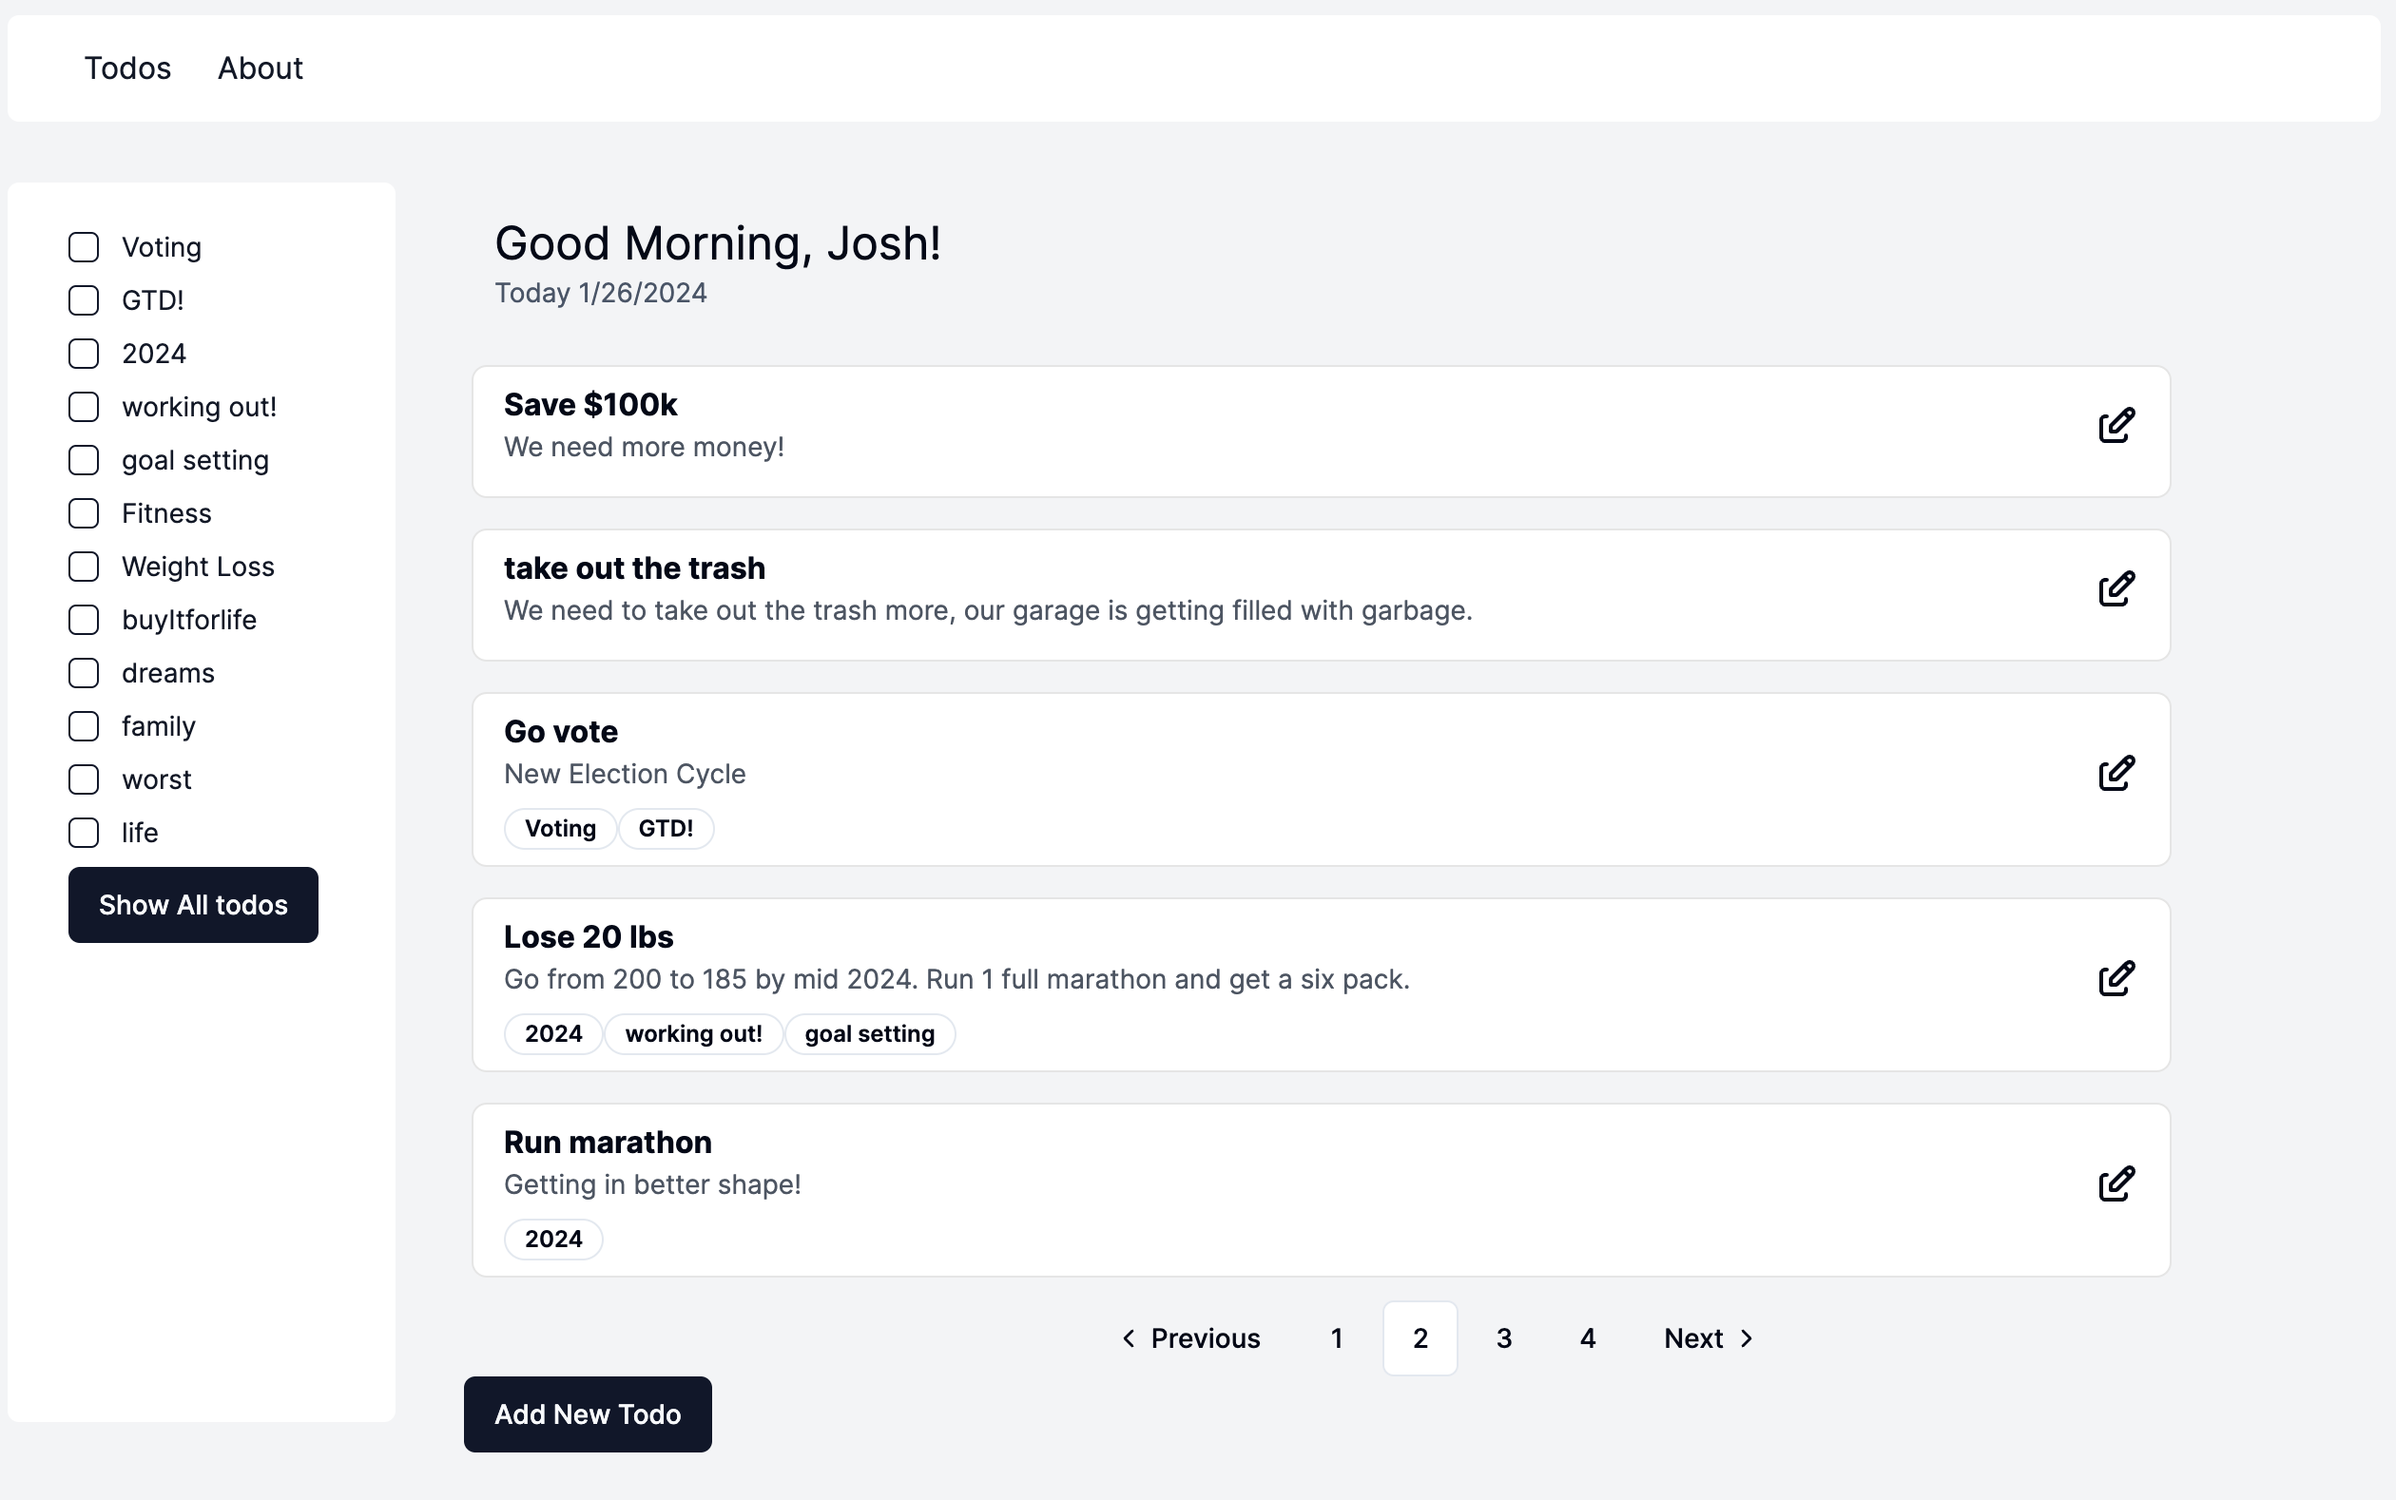
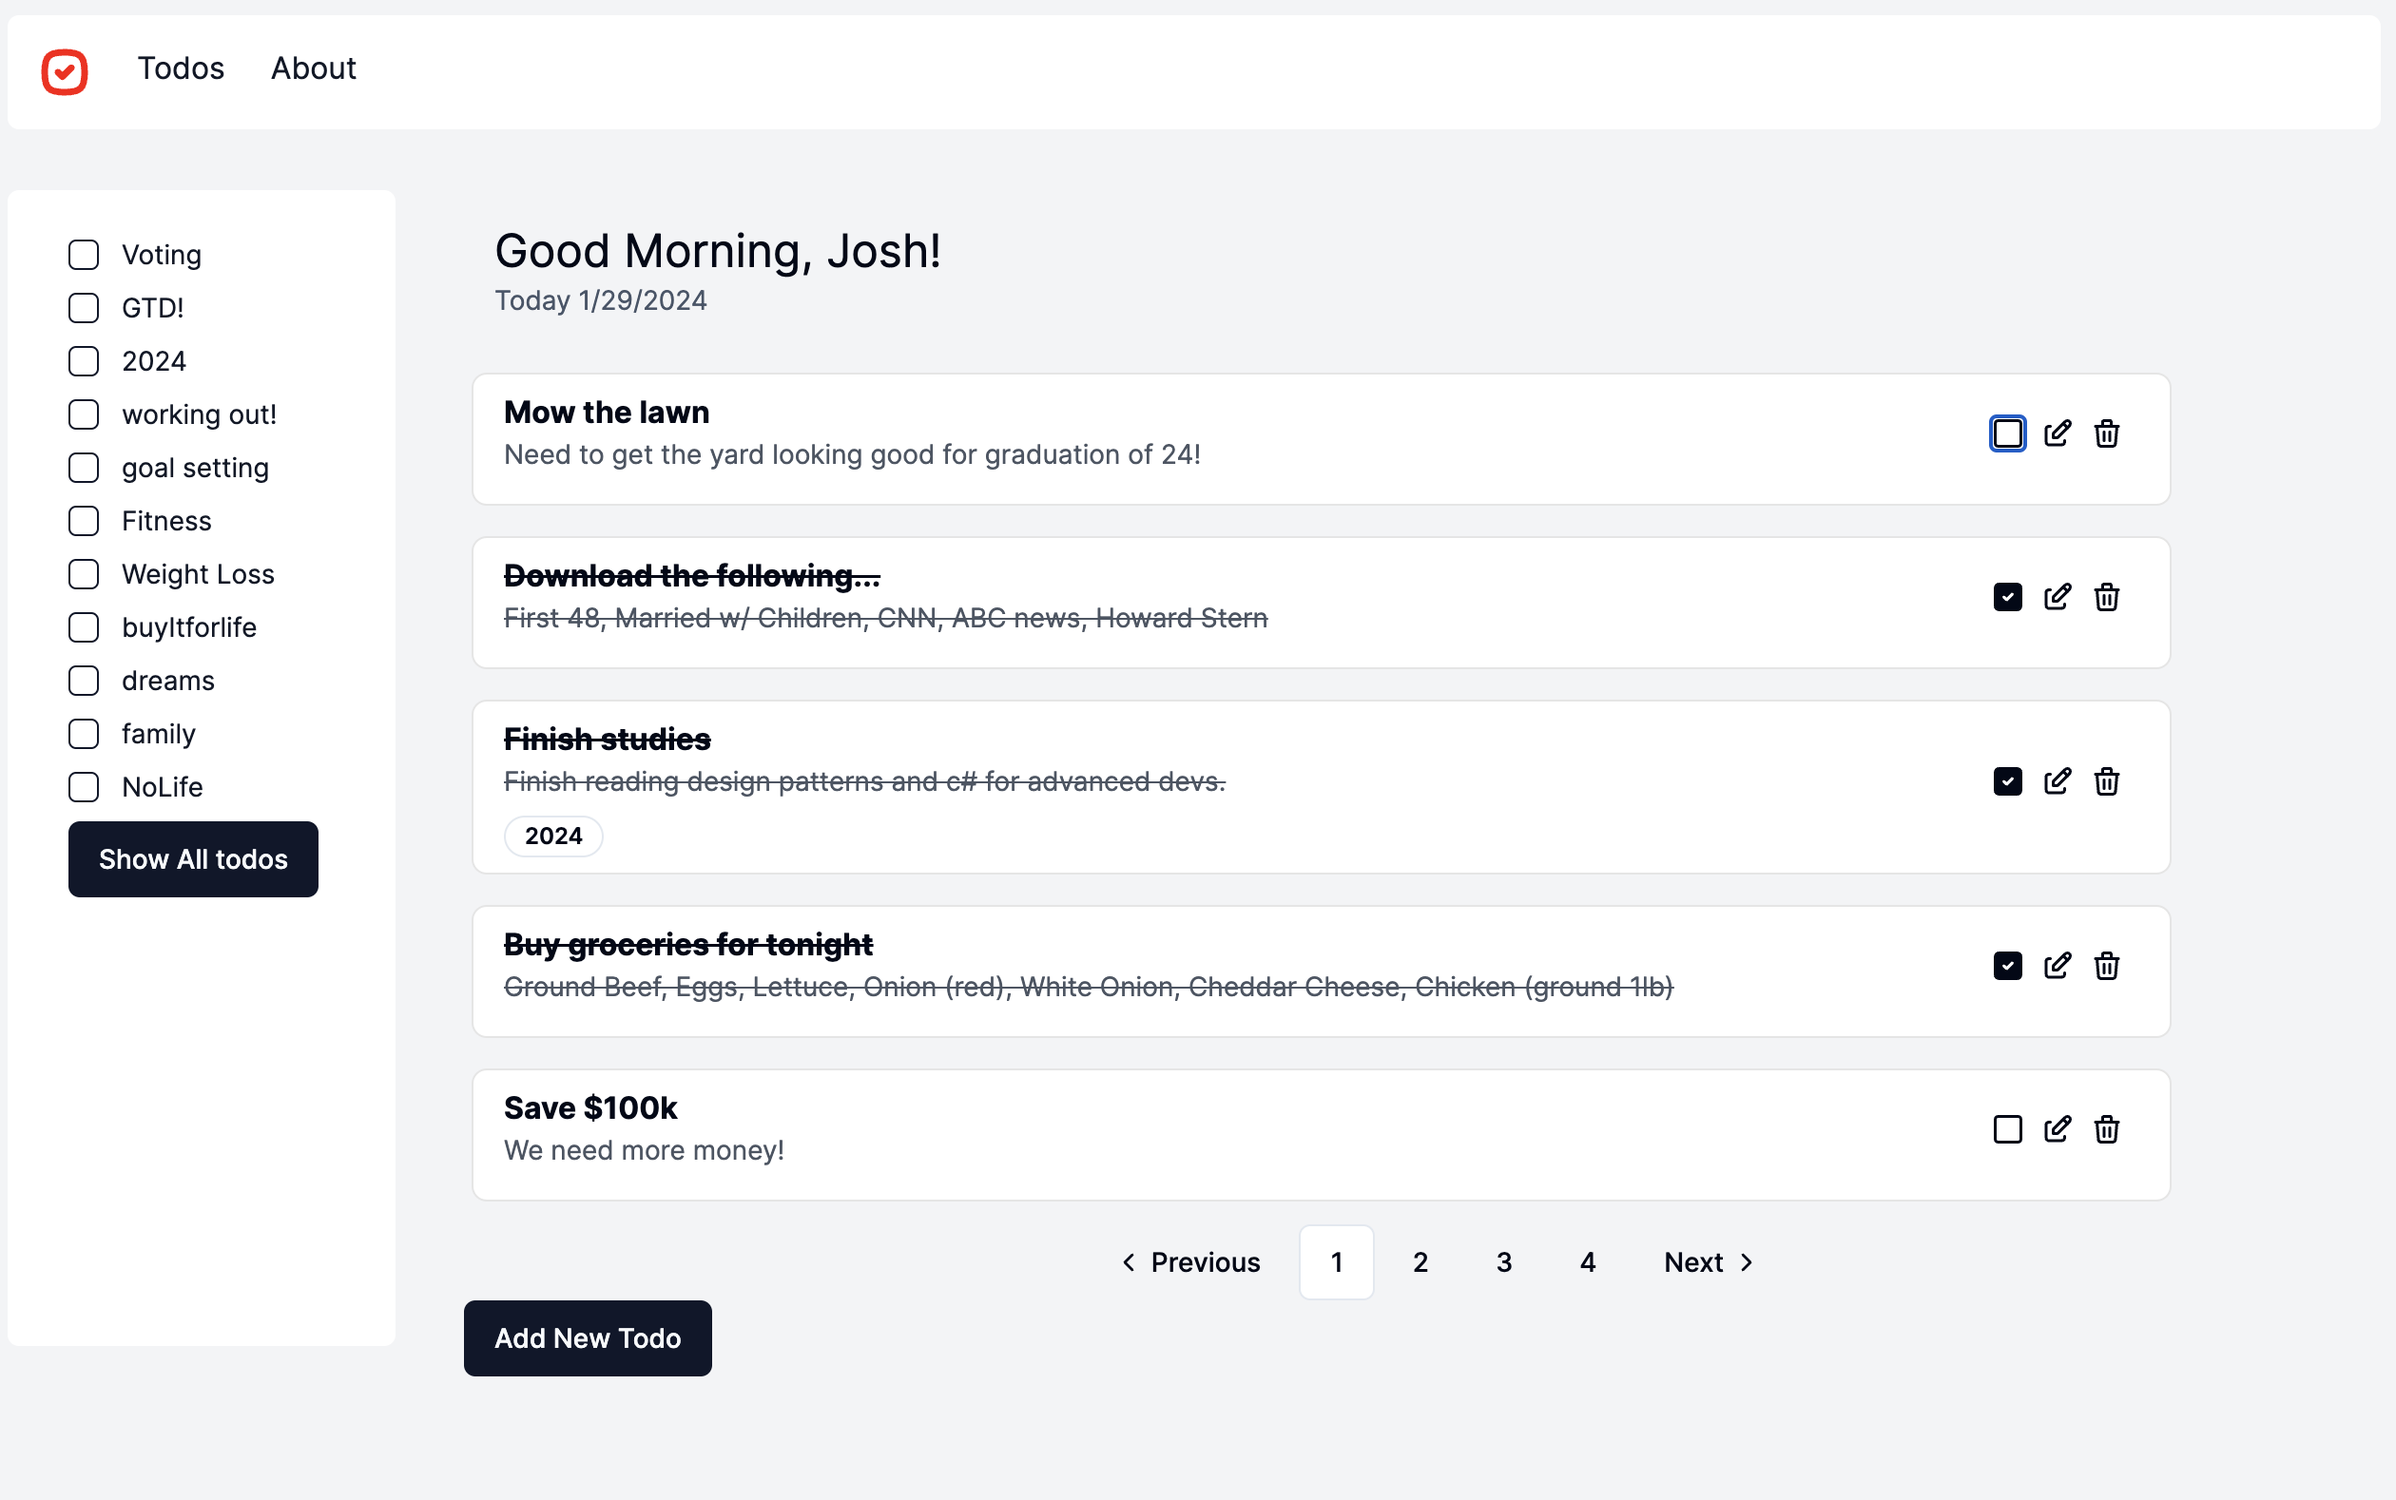
updated screenshot, changed complete todo to flip the state

diff --git a/utils/actions.ts b/utils/actions.ts
@@ -73,7 +73,7 @@ export const editTodo = async (id: string, todo) => {
   const disconnectTags = currentTagNames.map((name) => ({ name }))
 
   // create an object pair for each tag that needs created
-  const connectOrCreateTags = tags.map((name) => ({
+  const connectOrCreateTags = tags.map((name: string) => ({
     where: { name },
     create: { name },
   }))
@@ -94,17 +94,25 @@ export const editTodo = async (id: string, todo) => {
   return updatedTodo
 }
 
-// Mark a todo complete
+// Flips the state of complete on todo. Marks complete if not complete and vice versa
 export const completeTodo = async (id: string) => {
+  const currentTodo = await db.todo.findUnique({
+    where: { id },
+  })
+
+  if (!currentTodo) {
+    throw new Error('todo not found')
+  }
+
   const todo = await db.todo.update({
     where: { id },
     data: {
-      completed: true,
+      completed: !currentTodo.completed,
     },
   })
 
   // this will expire the cache of the todos page and force it to refetch data
-  revalidatePath('/todos')
+  revalidatePath('/')
 }
 
 // Delete a todo based on string id

diff --git a/app/api/todo/route.ts b/app/api/todo/route.ts
@@ -1,19 +1,20 @@
-import { NextResponse } from "next/server"
-import db from "@/utils/db"
+import { NextResponse } from 'next/server'
+import db from '@/utils/db'
 
+// returns all todos as json
 export const GET = async (request: Request) => {
-    const todos = await db.todo.findMany({})
-    return NextResponse.json({
-        data:todos
-    })
+  const todos = await db.todo.findMany({})
+  return NextResponse.json({
+    data: todos,
+  })
 }
 
-export const POST = async (request: Request) => {
-    const data = await request.json()
-    const todo = await db.todo.create({
-        data: data
-    })
-    return NextResponse.json({
-        message:todo
-    })
-}
+// export const POST = async (request: Request) => {
+//   const data = await request.json()
+//   const todo = await db.todo.create({
+//     data: data,
+//   })
+//   return NextResponse.json({
+//     message: todo,
+//   })
+// }

diff --git a/components/Todo.tsx b/components/Todo.tsx
@@ -39,8 +39,20 @@ const Todo = ({
     <>
       <div className="flex justify-between items-center h-1/4 w-3/4 my-2 px-4 py-2 border border-black/10 bg-white cursor-pointer rounded-lg">
         <div className="flex flex-col ">
-          <h2 className="font-bold text-large mb-0">{todo.title}</h2>
-          <p className="text-gray-600 text-sm">{todo.content}</p>
+          <h2
+            className={`font-bold text-large mb-0 ${
+              todo.completed ? 'line-through' : ''
+            }`}
+          >
+            {todo.title}
+          </h2>
+          <p
+            className={`text-gray-600 text-sm ${
+              todo.completed ? 'line-through' : ''
+            }`}
+          >
+            {todo.content}
+          </p>
           <div className="flex flex-wrap mt-2">
             {todo.tags.map((tag, idx) => (
               <Badge key={idx} variant="outline">

diff --git a/components/Greeting.tsx b/components/Greeting.tsx
@@ -1,13 +1,15 @@
 import React from 'react'
 
 const Greeting = () => {
-  const date = new Date();
-  const formattedDate = `${date.getMonth() + 1}/${date.getDate()}/${date.getFullYear()}`;
+  const date = new Date()
+  const formattedDate = `${
+    date.getMonth() + 1
+  }/${date.getDate()}/${date.getFullYear()}`
 
   return (
-    <div className='mt-4 px-4 py-4'>
-      <h1 className='text-2xl'>Good Morning, Josh!</h1>
-      <h3 className='text-slate-600 text-sm'>Today {formattedDate}</h3>
+    <div className="mt-4 px-4 py-4">
+      <h1 className="text-2xl">Good Morning, Josh!</h1>
+      <h3 className="text-slate-600 text-sm">Today {formattedDate}</h3>
     </div>
   )
 }

diff --git a/README.md b/README.md
@@ -11,6 +11,15 @@ Run the dev server
 npm run dev
 ```
 
+## Features
+
+- Server actions for handling form input
+- Zod for type safety and form verification
+- Tailwind for styling
+- Prisma & SQLlite for ORM and database
+- Download of todos via JSON from /api/todos (need to add csv option)
+- Filter by tag
+
 ## Todo
 
 - Add priority / due date as well as importance level
